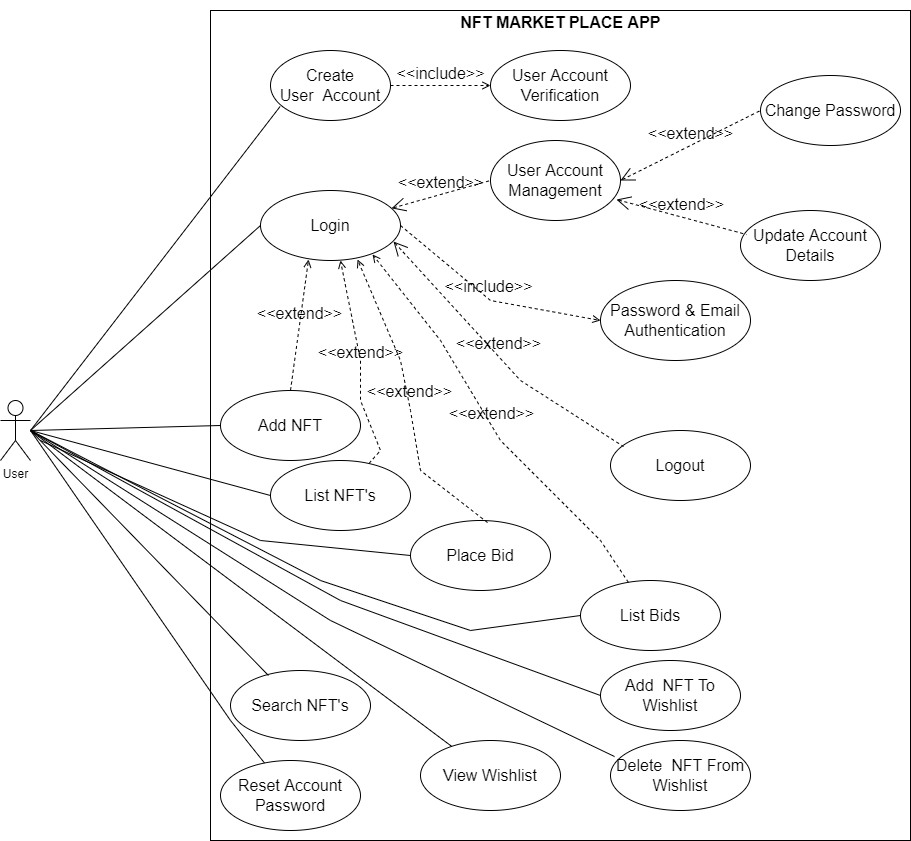
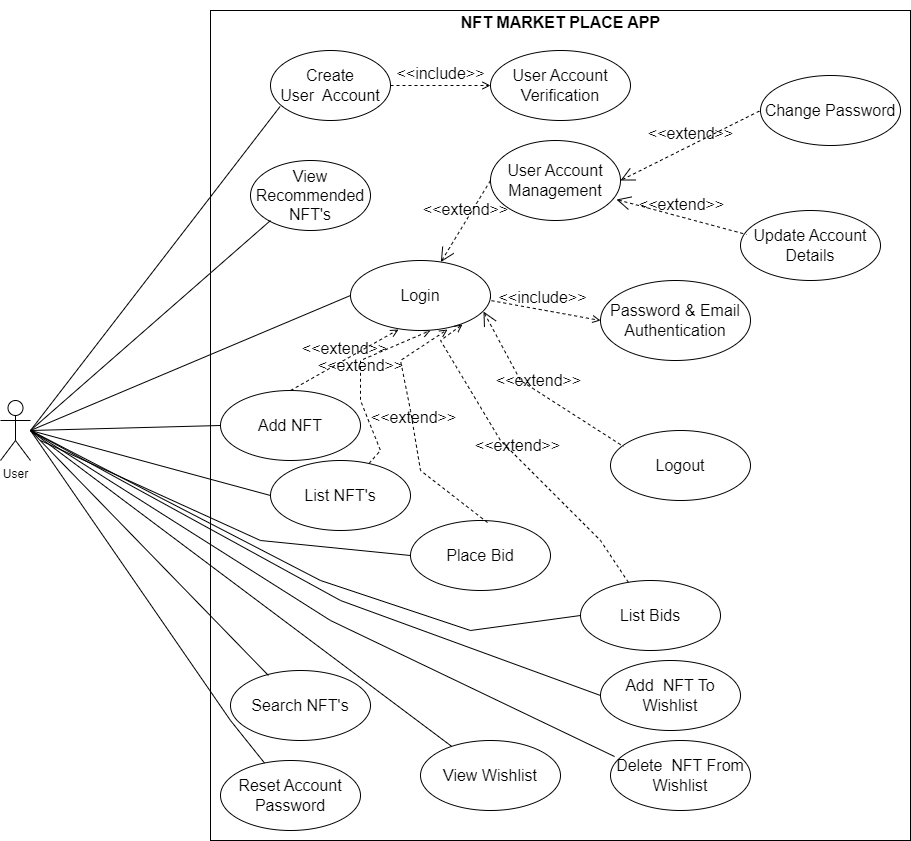
added the recommender engine use case to the diagrams. also fixed a sentence error in the wishlist screen

diff --git a/screens/WishList.js b/screens/WishList.js
@@ -1,77 +1,118 @@
 //1. import all requred packages,hooks and components
 //===================================================
 import axios from './../api/axios';
-import {COLORS} from "./../constants";
+import { COLORS } from './../constants';
 import {
   TopScreenDivider,
   BottomScreenDivider,
   ScreenDividerContainer,
 } from './../components/StyledComponents';
-import {useState, useEffect,useContext} from 'react';
+import { useState, useEffect, useContext } from 'react';
 import { MaterialCommunityIcons } from '@expo/vector-icons';
-import { HomeHeader,NFTCard, FocusedStatusBar } from './../components';
+import { HomeHeader, NFTCard, FocusedStatusBar } from './../components';
 import { WishListDataContext } from './../contexts/WishListDataContext';
-import {View, SafeAreaView, FlatList,ActivityIndicator, Text} from 'react-native';
+import {
+  View,
+  SafeAreaView,
+  FlatList,
+  ActivityIndicator,
+  Text,
+} from 'react-native';
 
-const WishList = ({navigation}) => {
-    const [wishList, setWishList] = useState(null);
-    const [wishListSearchResults, setWishListSearchResults] = useState(null);
-    const [loading, setLoading] = useState(true);
-    const {wishListData, setWishListData } = useContext(WishListDataContext);
-    const {nftWishListCount,userIpAddress } = wishListData;
-  
-    useEffect(() => {
-        //get users wish list from the database
-        const fetchNftWishListData = async (userIpAddress) => {
-          const result = await axios.get(`/api/get_users_wish_list/?user_ip_address=${userIpAddress}`);
-     
-          setWishList(result.data);
-          setLoading(false);
-        };   
-     
-        fetchNftWishListData(userIpAddress); 
+const WishList = ({ navigation }) => {
+  const [wishList, setWishList] = useState(null);
+  const [wishListSearchResults, setWishListSearchResults] = useState(null);
+  const [loading, setLoading] = useState(true);
+  const { wishListData, setWishListData } = useContext(WishListDataContext);
+  const { nftWishListCount, userIpAddress } = wishListData;
 
-    },[]);
-
-
-    //search users wishlist
-    const handleSearch = value => {
-      const filteredData = wishList.filter((item) =>
-        item.nft_title.toLowerCase().includes(value.toLowerCase())
+  useEffect(() => {
+    //get users wish list from the database
+    const fetchNftWishListData = async (userIpAddress) => {
+      const result = await axios.get(
+        `/api/get_users_wish_list/?user_ip_address=${userIpAddress}`
       );
-  
-      if (filteredData.length !== 0) setWishListSearchResults(filteredData);
-    };  
+
+      setWishList(result.data);
+      setLoading(false);
+    };
+
+    fetchNftWishListData(userIpAddress);
+  }, []);
+
+  //search users wishlist
+  const handleSearch = (value) => {
+    const filteredData = wishList.filter((item) =>
+      item.nft_title.toLowerCase().includes(value.toLowerCase())
+    );
+
+    if (filteredData.length !== 0) setWishListSearchResults(filteredData);
+  };
 
   return (
-    <SafeAreaView style={{flex:1}}>
-        <FocusedStatusBar background={COLORS.primary}/>
-        <View style={{flex: 1}}>
-            <View style={{zIndex: 0}}>
-                <FlatList 
-                    data={wishListSearchResults ? wishListSearchResults : wishList}
-                    renderItem={({item}) => <NFTCard data={item} buttonText = "Delete from wishlist" buttonBackgroundColor={COLORS.red} refreshWishList={setWishList} wishList={wishList}/>}
-                    keyExtractor={item => item.nft_id}
-                    showsVerticalScrollIndicator={false}
-                    ListHeaderComponent={<HomeHeader onSearch={handleSearch} navigation={navigation} searchBarPlaceHolderText="Search your nft wish list"/>}
-                />
-            </View>
-            {loading && <ActivityIndicator size="large" color={COLORS.brand} style={{marginVertical:200}}/>}
-
-            {nftWishListCount == 0 && !loading && (
-              <>
-              <MaterialCommunityIcons name="cart-heart" size={64} color={COLORS.brand} style={{marginVertical:250, marginHorizontal:150}}/>
-              <Text style={{textAlign:"center", position:"absolute", bottom:180, left:120}}> Your wish list empty. </Text>
-              </>
+    <SafeAreaView style={{ flex: 1 }}>
+      <FocusedStatusBar background={COLORS.primary} />
+      <View style={{ flex: 1 }}>
+        <View style={{ zIndex: 0 }}>
+          <FlatList
+            data={wishListSearchResults ? wishListSearchResults : wishList}
+            renderItem={({ item }) => (
+              <NFTCard
+                data={item}
+                buttonText='Delete from wishlist'
+                buttonBackgroundColor={COLORS.red}
+                refreshWishList={setWishList}
+                wishList={wishList}
+              />
             )}
-
-            <ScreenDividerContainer>
-              <TopScreenDivider />
-              <BottomScreenDivider />
-            </ScreenDividerContainer>
+            keyExtractor={(item) => item.nft_id}
+            showsVerticalScrollIndicator={false}
+            ListHeaderComponent={
+              <HomeHeader
+                onSearch={handleSearch}
+                navigation={navigation}
+                searchBarPlaceHolderText='Search your nft wish list'
+              />
+            }
+          />
         </View>
+        {loading && (
+          <ActivityIndicator
+            size='large'
+            color={COLORS.brand}
+            style={{ marginVertical: 200 }}
+          />
+        )}
+
+        {nftWishListCount == 0 && !loading && (
+          <>
+            <MaterialCommunityIcons
+              name='cart-heart'
+              size={64}
+              color={COLORS.brand}
+              style={{ marginVertical: 250, marginHorizontal: 150 }}
+            />
+            <Text
+              style={{
+                textAlign: 'center',
+                position: 'absolute',
+                bottom: 180,
+                left: 120,
+              }}
+            >
+              {' '}
+              Your wish list is empty.{' '}
+            </Text>
+          </>
+        )}
+
+        <ScreenDividerContainer>
+          <TopScreenDivider />
+          <BottomScreenDivider />
+        </ScreenDividerContainer>
+      </View>
     </SafeAreaView>
-  )
-}
+  );
+};
 
 export default WishList;

diff --git a/components/VerificationModal.js b/components/VerificationModal.js
@@ -1,69 +1,104 @@
 //1. import all required constants and components
 //===============================================
 import {
-    InfoText,
-    PageTitle,
-    ModalView,
-    ButtonText,
-    StyledButton
+  InfoText,
+  PageTitle,
+  ModalView,
+  ButtonText,
+  StyledButton,
 } from './../components/StyledComponents';
-import { Modal, View} from 'react-native';
-import {Ionicons} from '@expo/vector-icons';
-import { COLORS, Constants } from "./../constants";
-import  FocusedStatusBar  from './FocusedStatusBar';
+import { Modal, View } from 'react-native';
+import { Ionicons } from '@expo/vector-icons';
+import { COLORS, Constants } from './../constants';
+import FocusedStatusBar from './FocusedStatusBar';
 
 const StatusBarHeight = Constants.statusBarHeight;
 
-const VerificationModal = ({modalVisible, setModalVisible,successful,message, navigation}) => {
-  const buttonHandler = () => { 
-    if(successful) {
-        //redirect the user to the log in screen
-        navigation.navigate('Home');
+const VerificationModal = ({
+  modalVisible,
+  setModalVisible,
+  successful,
+  message,
+  navigation,
+}) => {
+  const buttonHandler = () => {
+    if (successful) {
+      //redirect the user to the log in screen
+      navigation.navigate('Home');
     }
     setModalVisible(false);
-  }
-  
-return (
-   <Modal animationType='slide' visible={modalVisible} transparent={true}>
-            <View style={{flex:1,padding: 25, paddingTop: StatusBarHeight + 30, justifyContent:'center',alignItems:'center', backgroundColor: 'rgba(0,0,0,0.7)'}}>
-                {!successful && <FailContent buttonHandler={buttonHandler} errorMsg={message}/> }
-                {successful && <SuccessContent buttonHandler={buttonHandler}/> }
-            </View>
-   </Modal>
-  )
-}
+  };
 
-//content for the modals
- const SuccessContent = ({buttonHandler}) => { 
-    return (
-        <ModalView>
-            <FocusedStatusBar background={COLORS.primary}/>
-             <Ionicons name="checkmark-circle" size={100} color={COLORS.green} />
-             <PageTitle style={{fontSize: 25, color:COLORS.tertiary, marginBottom:10}}>Verified</PageTitle>
-             <InfoText style={{color:COLORS.tertiary, marginBottom: 15}}>You have successfully verified your account. 😎</InfoText>
-
-             <StyledButton style={{backgroundColor:COLORS.green, flexDirection:'row'}} onPress={buttonHandler}>
-                <ButtonText>Continue to App</ButtonText>
-                <Ionicons name="arrow-forward-circle" size={25} color={COLORS.white} />
-             </StyledButton>
-        </ModalView>
-    );
+  return (
+    <Modal animationType='slide' visible={modalVisible} transparent={true}>
+      <View
+        style={{
+          flex: 1,
+          padding: 25,
+          paddingTop: StatusBarHeight + 30,
+          justifyContent: 'center',
+          alignItems: 'center',
+          backgroundColor: 'rgba(0,0,0,0.7)',
+        }}
+      >
+        {!successful && (
+          <FailContent buttonHandler={buttonHandler} errorMsg={message} />
+        )}
+        {successful && <SuccessContent buttonHandler={buttonHandler} />}
+      </View>
+    </Modal>
+  );
 };
 
-const FailContent = ({errorMsg, buttonHandler}) => { 
-    return (
-        <ModalView>
-            <FocusedStatusBar background={COLORS.primary}/>
-             <Ionicons name="close-circle" size={100} color={COLORS.red} />
-             <PageTitle style={{fontSize: 25, color:COLORS.tertiary, marginBottom:10}}>Failed</PageTitle>
-             <InfoText style={{color:COLORS.tertiary, marginBottom: 15}}>{`Oh Oh 😶! Account verification failed. ${errorMsg}.`}</InfoText>
+//content for the modals
+const SuccessContent = ({ buttonHandler }) => {
+  return (
+    <ModalView>
+      <FocusedStatusBar background={COLORS.primary} />
+      <Ionicons name='checkmark-circle' size={100} color={COLORS.green} />
+      <PageTitle
+        style={{ fontSize: 25, color: COLORS.tertiary, marginBottom: 10 }}
+      >
+        Verified
+      </PageTitle>
+      <InfoText style={{ color: COLORS.tertiary, marginBottom: 15 }}>
+        You have successfully verified your account. 😎
+      </InfoText>
 
-            <StyledButton style={{backgroundColor:COLORS.red, flexDirection:'row'}} onPress={buttonHandler}>
-                <ButtonText>Try Again</ButtonText>
-                <Ionicons name="arrow-redo-circle" size={25} color={COLORS.white} />
-             </StyledButton>
-        </ModalView>
-    );
+      <StyledButton
+        style={{ backgroundColor: COLORS.green, flexDirection: 'row' }}
+        onPress={buttonHandler}
+      >
+        <ButtonText>Continue to App</ButtonText>
+        <Ionicons name='arrow-forward-circle' size={25} color={COLORS.white} />
+      </StyledButton>
+    </ModalView>
+  );
+};
+
+const FailContent = ({ errorMsg, buttonHandler }) => {
+  return (
+    <ModalView>
+      <FocusedStatusBar background={COLORS.primary} />
+      <Ionicons name='close-circle' size={100} color={COLORS.red} />
+      <PageTitle
+        style={{ fontSize: 25, color: COLORS.tertiary, marginBottom: 10 }}
+      >
+        Failed
+      </PageTitle>
+      <InfoText
+        style={{ color: COLORS.tertiary, marginBottom: 15 }}
+      >{`Oh Oh 😶! Account verification failed. ${errorMsg}.`}</InfoText>
+
+      <StyledButton
+        style={{ backgroundColor: COLORS.red, flexDirection: 'row' }}
+        onPress={buttonHandler}
+      >
+        <ButtonText>Try Again</ButtonText>
+        <Ionicons name='arrow-redo-circle' size={25} color={COLORS.white} />
+      </StyledButton>
+    </ModalView>
+  );
 };
 
 export default VerificationModal;